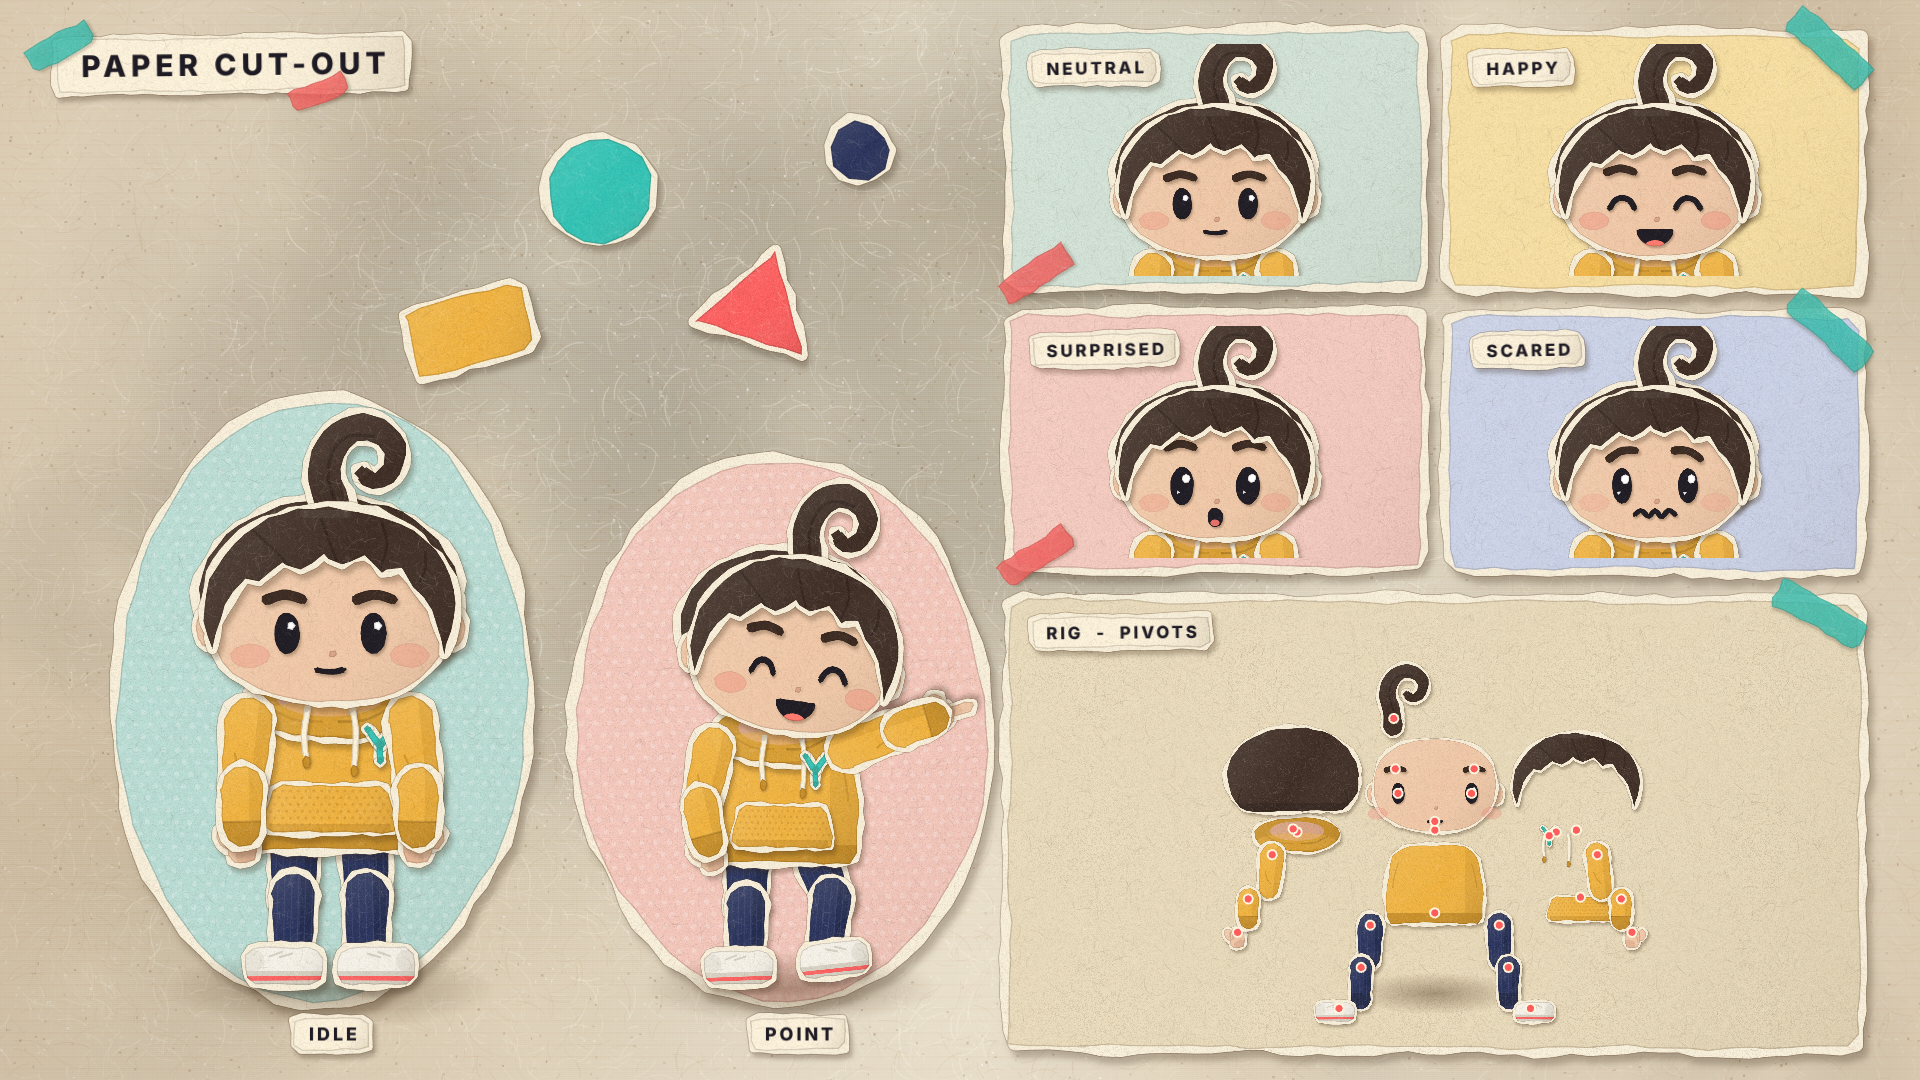
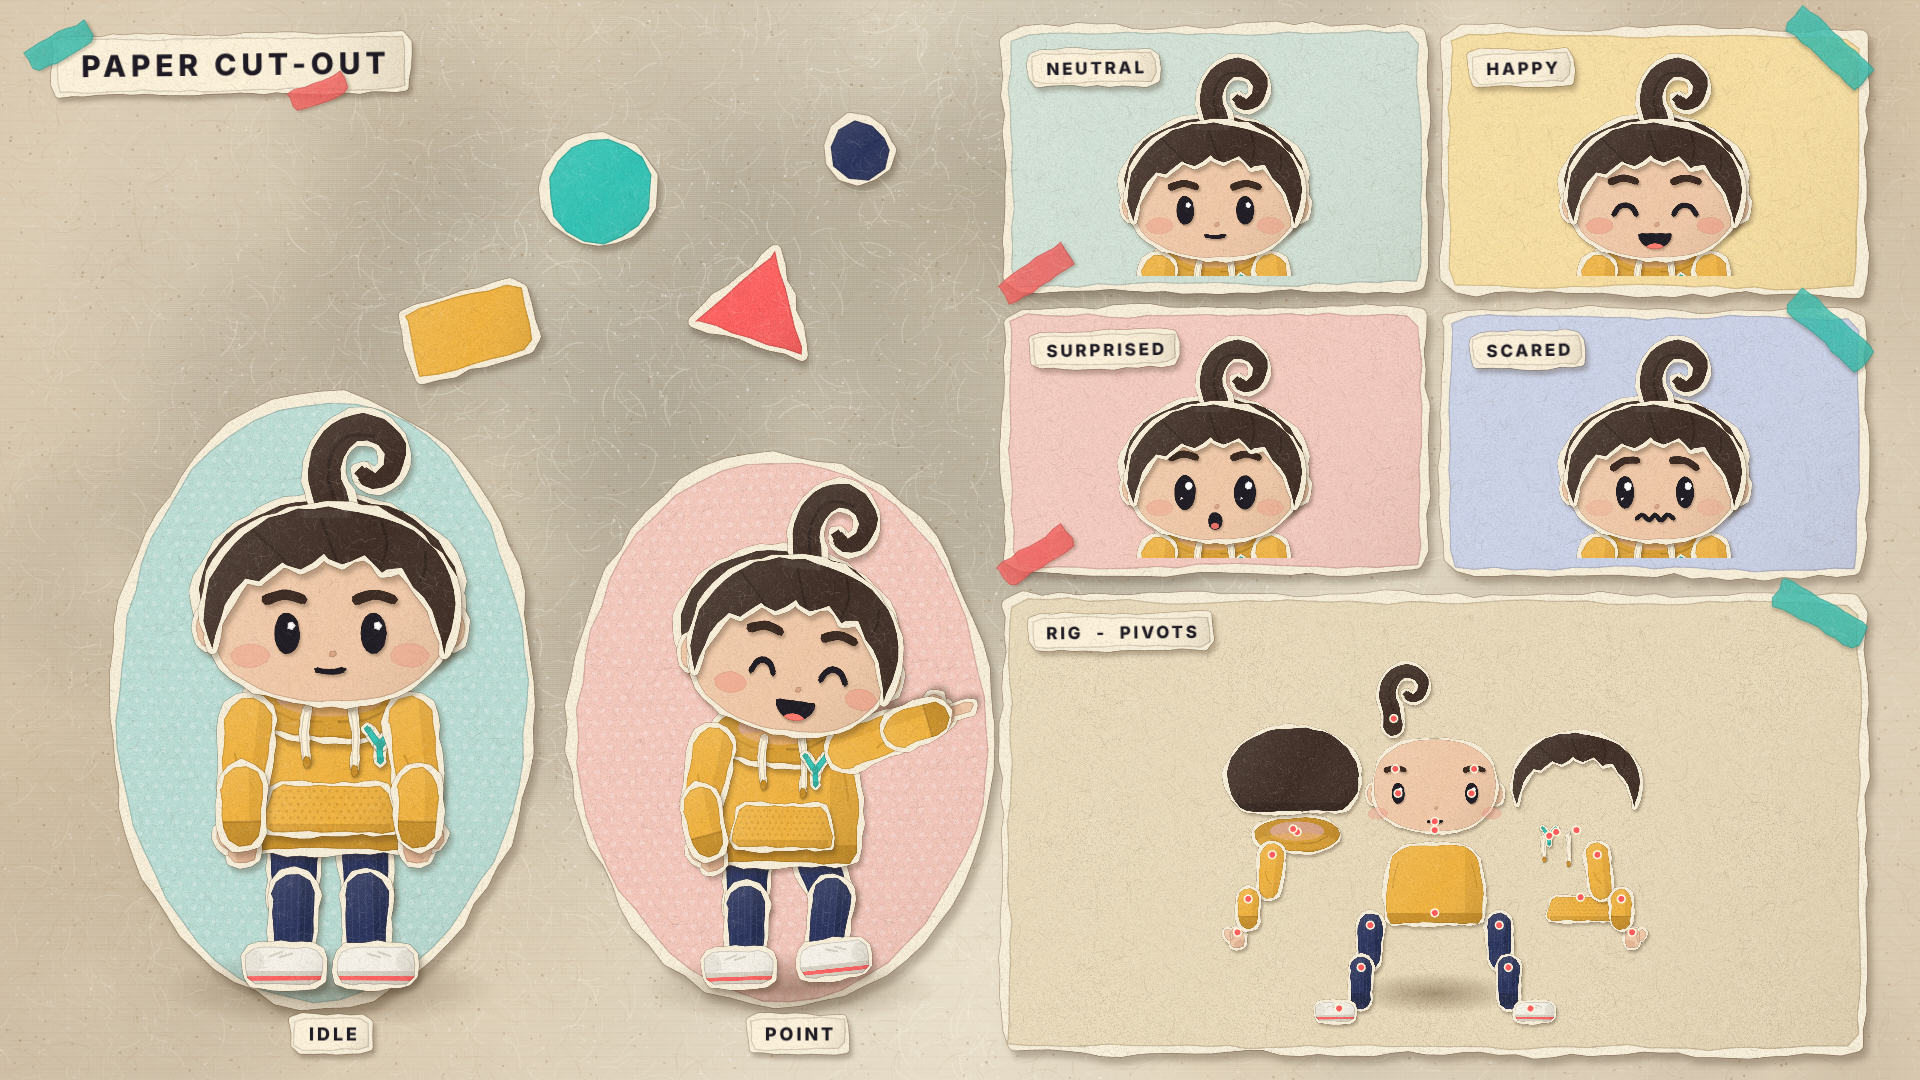
Add paper cut-out character style sheet (Oli)
Claude-Session: https://claude.ai/code/session_014Lkf6Yhz1EryPLnDh7J4BE

diff --git a/pilot/characters/paper/index.html b/pilot/characters/paper/index.html
@@ -74,8 +74,8 @@ exprs.forEach(([name, col], i) => {
   // portrait crop: head + collar + top of hoodie; remove ground shadow
   ch.parts.groundShadow.visible = false;
   const head = ch.parts.head; const hp = ch.toLocal(head.toGlobal({ x: 0, y: 0 }));
-  const hs = 0.66;
-  ch.scale.set(hs); ch.position.set(CW / 2 - hp.x * hs, 220 - hp.y * hs);
+  const hs = 0.6;
+  ch.scale.set(hs); ch.position.set(CW / 2 - hp.x * hs, 222 - hp.y * hs);
   const m = new Graphics().rect(10, 10, CW - 20, CH - 20).fill(0xffffff);
   holder.addChild(ch, m); ch.mask = m;
   label(name.toUpperCase(), cx + 22, cy + 20, 17, PAL.cream, PAL.ink, -0.02);
